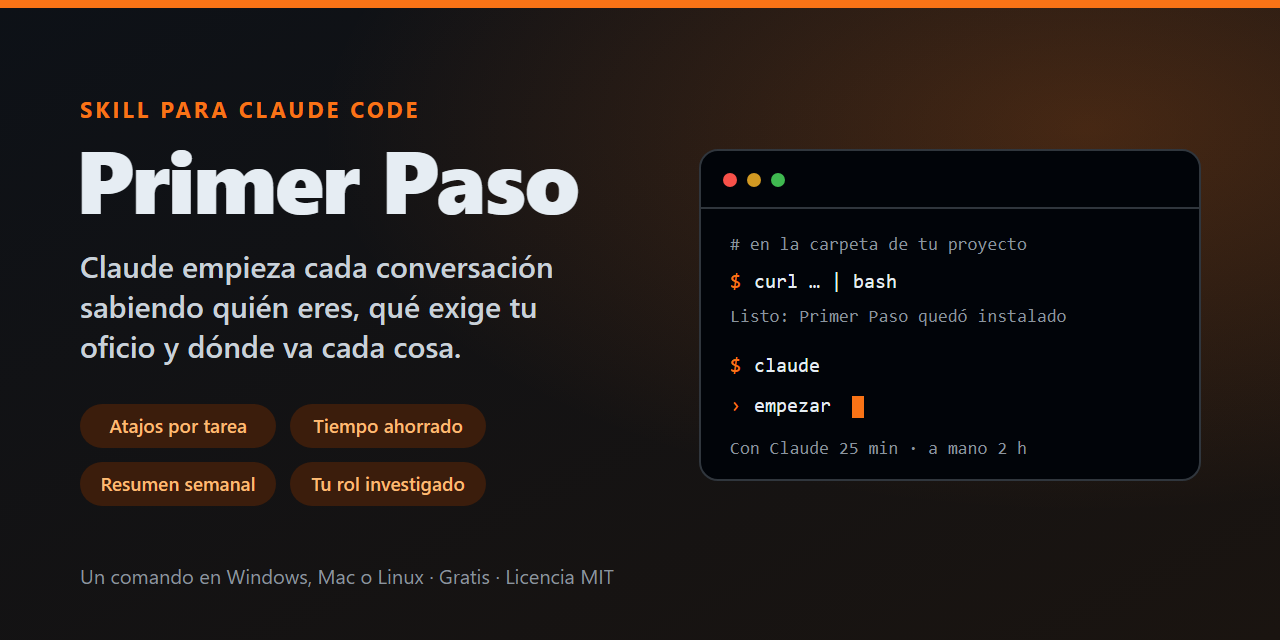
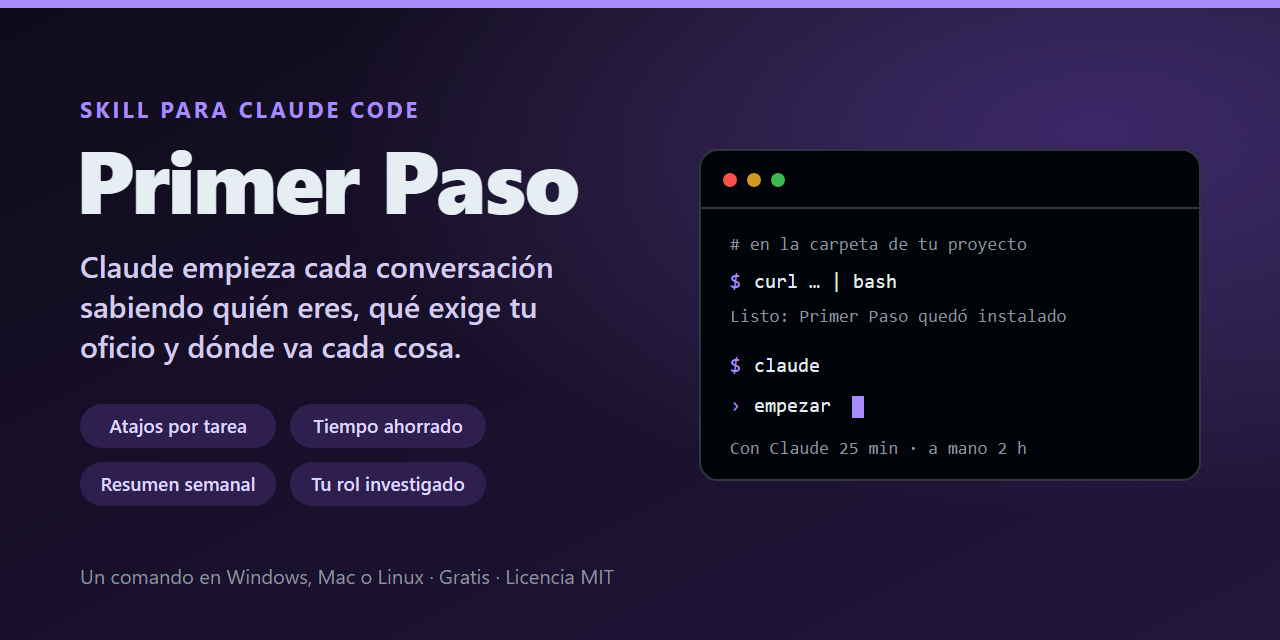
Imagen de presentación morada como portada del README
docs/opengraph.svg y docs/opengraph.png pasan a la versión morada; el README
la usa como portada en lugar del subtítulo.

diff --git a/README.md b/README.md
@@ -1,6 +1,6 @@
 # Primer Paso
 
-## Claude empieza cada conversación sabiendo quién eres, qué exige tu oficio y dónde va cada cosa
+![Primer Paso, skill para Claude Code: Claude empieza cada conversación sabiendo quién eres, qué exige tu oficio y dónde va cada cosa](docs/opengraph.svg)
 
 Instálalo en tu carpeta de trabajo, escribe «empezar» y en unos minutos tienes
 un espacio hecho a tu medida. Desde ese día, cada tarea queda registrada,
